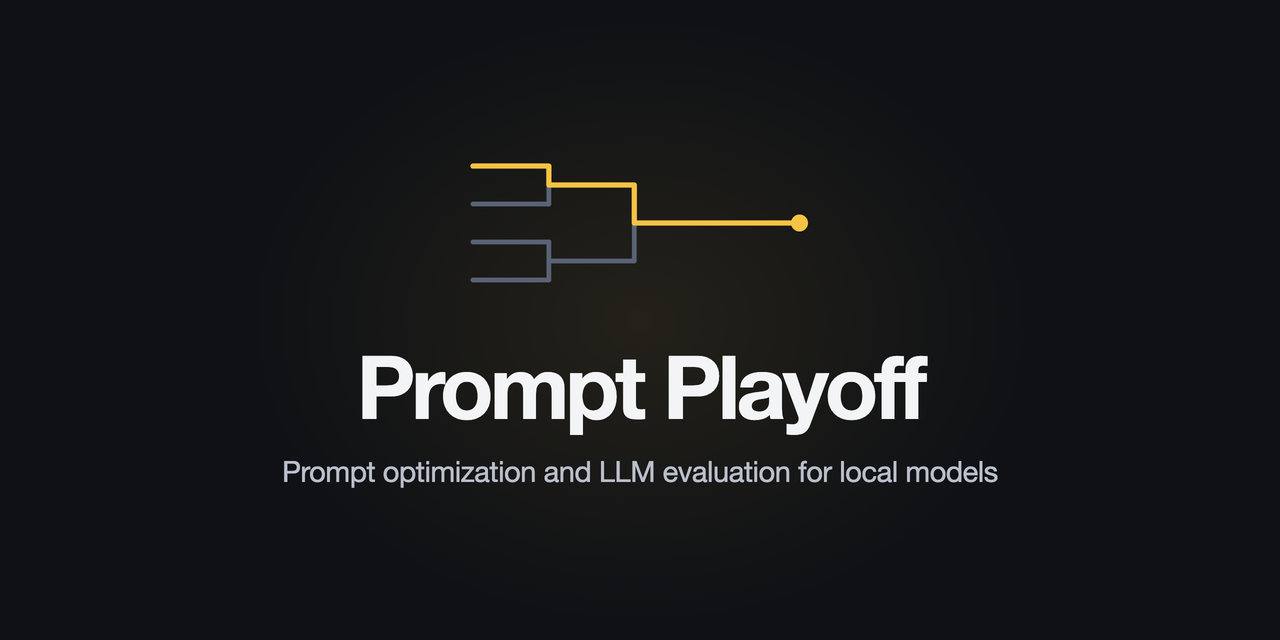
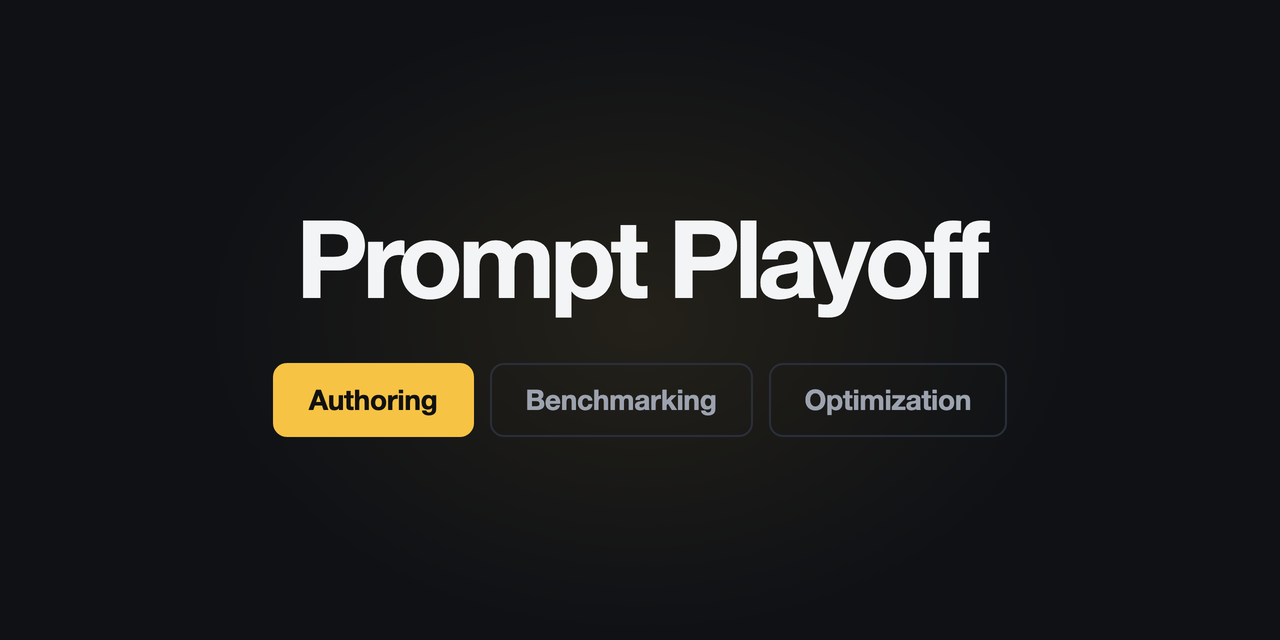
docs: social card is the name over the three things it does
The bracket was a drawing of the idea. The tabs are the product: same tokens,
same pill shape, same active state as the interface, so the card reads as a
piece of the app instead of an illustration about it.

Centred inside 845x422 for the platform crops, and the pills stay legible at
300px wide because they are three short words at 28px rather than thin
strokes.

Changed region(s): [[0.2188, 0.25, 0.7812, 0.5], [0.1875, 0.5312, 0.75, 0.6875], [0.2188, 0.7188, 0.7812, 0.7812]]

diff --git a/assets/social-preview.html b/assets/social-preview.html
@@ -2,9 +2,10 @@
 <meta charset="utf-8">
 <title>social</title>
 <style>
-  /* The interface's own tokens, so the card and the app look like one thing. */
+  /* The interface's own tokens and its own tab styling, scaled up: the card
+     is a piece of the product rather than a drawing of it. */
   :root {
-    --bg:#0f1115; --text:#f3f4f6; --sub:#b9c0cc; --line:#5a6376; --accent:#f6c344;
+    --bg:#0f1115; --text:#f3f4f6; --muted:#9ca3af; --border:#2a2f3a; --accent:#f6c344;
     --sans: -apple-system, "Helvetica Neue", Arial, sans-serif;
   }
   * { box-sizing:border-box; margin:0; padding:0; }
@@ -15,39 +16,31 @@
   }
   .glow {
     position:absolute; left:50%; top:50%; transform:translate(-50%,-50%);
-    width:900px; height:700px; pointer-events:none;
+    width:1000px; height:720px; pointer-events:none;
     background:radial-gradient(ellipse, rgba(246,195,68,.09) 0%, rgba(246,195,68,0) 62%);
   }
-  /* Everything lives inside the centre two thirds, because X, LinkedIn and
-     Slack each crop this image to a different aspect ratio. */
+  /* Everything inside the centre two thirds: the platforms that show this
+     image each crop it to a different aspect ratio. */
   main {
-    position:relative; width:845px; height:422px;
-    display:flex; flex-direction:column; align-items:center; justify-content:center;
+    position:relative; width:845px;
+    display:flex; flex-direction:column; align-items:center;
   }
-  h1 { font-size:88px; font-weight:800; letter-spacing:-.045em; line-height:1; margin:44px 0 0; }
-  p { margin-top:22px; color:var(--sub); font-size:29px; line-height:1.35; letter-spacing:-.015em; }
-  svg { flex:none; }
+  h1 { font-size:108px; font-weight:800; letter-spacing:-.05em; line-height:1; }
+  .tabs { display:flex; gap:16px; margin-top:52px; }
+  .tab {
+    padding:18px 34px; border:2px solid var(--border); border-radius:14px;
+    color:var(--muted); font-size:28px; font-weight:600; letter-spacing:-.01em;
+  }
+  .tab.active { background:var(--accent); border-color:var(--accent); color:#111; font-weight:700; }
 </style>
 
 <div class="glow"></div>
 
 <main>
-  <!-- The name is the diagram: techniques enter, they are measured against
-       each other, one comes out. Strokes are heavy enough to survive the
-       300px-wide thumbnail every link unfurl shrinks this to. -->
-  <svg width="360" height="150" viewBox="-4 -4 360 158" fill="none"
-       stroke-linecap="round" stroke-linejoin="round" aria-hidden="true">
-    <g stroke="var(--line)" stroke-width="5">
-      <path d="M0 15 H80 M0 55 H80 M0 95 H80 M0 135 H80"/>
-      <path d="M80 15 V55 M80 95 V135"/>
-      <path d="M80 35 H170 M80 115 H170"/>
-      <path d="M170 35 V115"/>
-      <path d="M170 75 H344"/>
-    </g>
-    <path stroke="var(--accent)" stroke-width="5.5" d="M0 15 H80 V35 H170 V75 H344"/>
-    <circle cx="344" cy="75" r="9" fill="var(--accent)"/>
-  </svg>
-
   <h1>Prompt Playoff</h1>
-  <p>Prompt optimization and LLM evaluation for local models</p>
+  <div class="tabs">
+    <span class="tab active">Authoring</span>
+    <span class="tab">Benchmarking</span>
+    <span class="tab">Optimization</span>
+  </div>
 </main>
